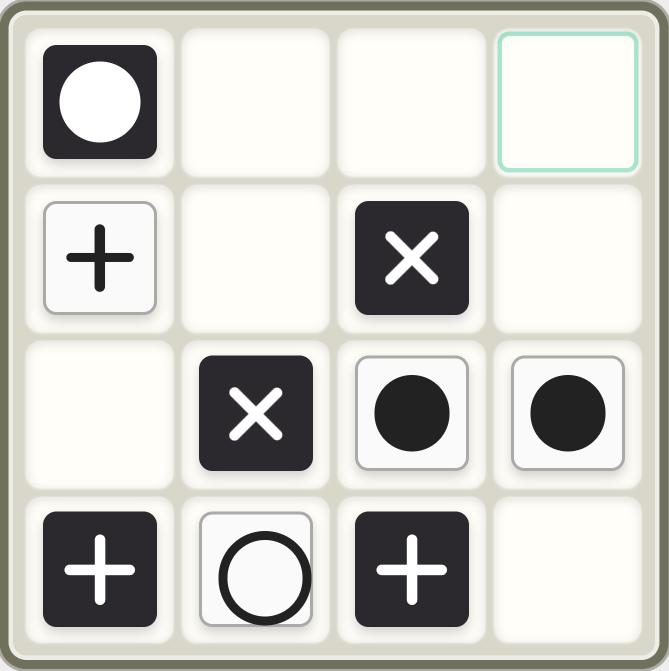
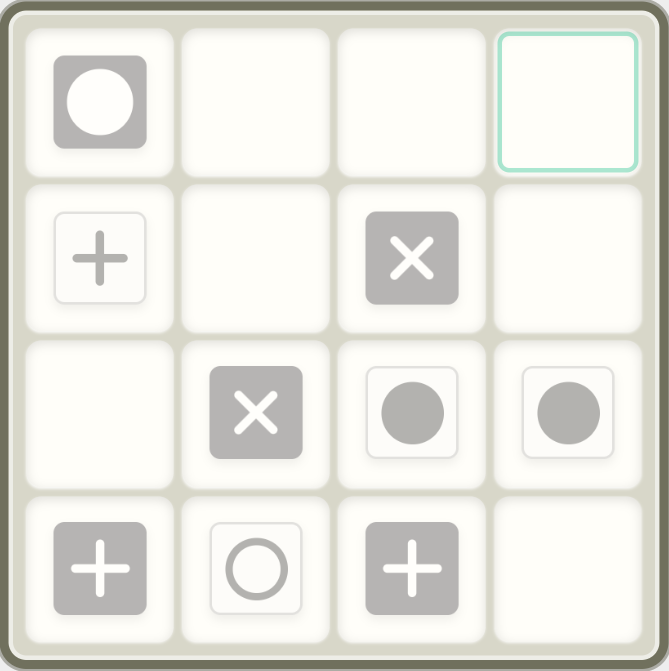
refine lobby and garden preview

diff --git a/index.html b/index.html
@@ -5,24 +5,20 @@
   <meta name="viewport" content="width=device-width, initial-scale=1, viewport-fit=cover">
   <meta name="theme-color" content="#f3f2ec">
   <title>棋類遊戲 3.0｜遊戲大廳</title>
-  <link rel="stylesheet" href="assets/lobby.css">
+  <link rel="stylesheet" href="assets/lobby.css?v=20260715c">
 </head>
 <body>
   <header class="site-head"><div class="head-inner"><p class="brand">ORO BOARD GAMES</p><h1>棋類遊戲 3.0</h1><p class="subtitle">選擇一款遊戲，直接開始對局</p></div></header>
   <main class="lobby">
-    <section class="section-head" aria-labelledby="available-title"><div><p class="eyebrow">PLAYABLE GAMES</p><h2 id="available-title">可遊玩遊戲</h2></div><span class="count">7 款完整遊戲</span></section>
-    <article class="game-card featured">
-      <a class="preview-link" href="interface.html" aria-label="開啟蒐靈祭 Soulaween"><div class="game-preview" data-preview="soulaween" data-cols="4"></div></a>
-      <div class="game-body"><div class="game-title-row"><div><p class="status playable">可遊玩</p><h3>蒐靈祭 <span>Soulaween</span></h3></div><span class="arrow" aria-hidden="true">→</span></div><p class="description">在 4×4 棋盤放置雙面靈魂並翻轉相鄰棋子，形成四連線後收取靈魂。先取得 3 分者獲勝。</p><div class="meta"><span>2 人</span><span>4×4 棋盤</span><span>翻轉與連線</span><span>MCTS AI</span></div><div class="actions"><a class="button primary" href="interface.html">開始遊戲</a><a class="button" href="games/soulaween/rules.html">詳細規則</a></div></div>
-    </article>
-    <section class="section-head catalog-head" aria-labelledby="catalog-title"><div><p class="eyebrow">GAME CATALOG</p><h2 id="catalog-title">其他遊戲</h2></div><span class="count">統一介面與純 MCTS AI</span></section>
+    <section class="section-head" aria-labelledby="available-title"><div><p class="eyebrow">PLAYABLE GAMES</p><h2 id="available-title">可遊玩遊戲</h2></div><span class="count">7 款遊戲</span></section>
     <section class="game-grid">
-      <article class="game-card"><div class="game-preview" data-preview="mijnlieff" data-cols="4"></div><div class="game-body"><p class="status playable">可遊玩</p><h3>花園棋 <span>Mijnlieff</span></h3><p class="description">四種棋子會限制對手下一枚棋的落點，遊戲結束後以三連線與四連線計分。</p><div class="meta"><span>2 人</span><span>A／B／C 棋盤</span><span>落點限制</span></div><div class="actions"><a class="button primary" href="games/mijnlieff/game.html">開始遊戲</a><a class="button" href="games/mijnlieff/rules.html">詳細規則</a></div></div></article>
-      <article class="game-card"><div class="game-preview" data-preview="santorini" data-cols="5"></div><div class="game-body"><p class="status playable">可遊玩</p><h3>聖托里尼 <span>Santorini</span></h3><p class="description">移動工人並建造樓層，登上第三層或讓對手沒有合法移動即可獲勝。</p><div class="meta"><span>2 人</span><span>5×5 棋盤</span><span>移動與建築</span></div><div class="actions"><a class="button primary" href="games/santorini/game.html">開始遊戲</a><a class="button" href="games/santorini/rules.html">詳細規則</a></div></div></article>
-      <article class="game-card"><div class="game-preview" data-preview="zombie" data-cols="5"></div><div class="game-body"><p class="status playable">可遊玩</p><h3>殭屍棋 <span>JUMP</span></h3><p class="description">復活、移動、堆疊與連跳。跳過對手殭屍取得分數，先取得 8 分者獲勝。</p><div class="meta"><span>2 人</span><span>5×5 棋盤</span><span>堆疊與連跳</span></div><div class="actions"><a class="button primary" href="games/zombie-jump/game.html">開始遊戲</a><a class="button" href="games/zombie-jump/rules.html">詳細規則</a></div></div></article>
-      <article class="game-card"><div class="game-preview" data-preview="four-color" data-cols="4"></div><div class="game-body"><p class="status playable">可遊玩</p><h3>四色棋 <span>Four Color Chess</span></h3><p class="description">移動焦點棋後，落點格色會指定對手下一枚必須移動的棋子。</p><div class="meta"><span>2 人</span><span>4×4 棋盤</span><span>焦點與封鎖</span></div><div class="actions"><a class="button primary" href="games/four-color-chess/game.html">開始遊戲</a><a class="button" href="games/four-color-chess/rules.html">詳細規則</a></div></div></article>
-      <article class="game-card"><div class="game-preview" data-preview="four-moves" data-cols="4"></div><div class="game-body"><p class="status playable">可遊玩</p><h3>四步棋 <span>Four Moves Chess</span></h3><p class="description">所在格的數字決定步數，沿正交方向跳到下一個可停留格並封閉離開的格子。</p><div class="meta"><span>2 人</span><span>4×4 棋盤</span><span>數字步數</span></div><div class="actions"><a class="button primary" href="games/four-moves-chess/game.html">開始遊戲</a><a class="button" href="games/four-moves-chess/rules.html">詳細規則</a></div></div></article>
-      <article class="game-card"><div class="game-preview" data-preview="torii" data-cols="4"></div><div class="game-body"><p class="status playable">可遊玩</p><h3>跳躍森靈 <span>Torii</span></h3><p class="description">使用行動板塊移動森靈、散布信徒並以四連線建立鳥居。</p><div class="meta"><span>2 人</span><span>4×4 棋盤</span><span>路徑與鳥居</span></div><div class="actions"><a class="button primary" href="games/torii/game.html">開始遊戲</a><a class="button" href="games/torii/rules.html">詳細規則</a></div></div></article>
+      <article class="game-card"><a class="preview-link" href="interface.html" aria-label="開始蒐靈祭 Soulaween"><div class="game-preview" data-preview="soulaween" data-cols="4"></div></a><div class="game-body"><p class="status playable">可遊玩</p><h3>蒐靈祭 <span>Soulaween</span></h3><p class="description">在 4×4 棋盤放置雙面靈魂並翻轉相鄰棋子，形成四連線後收取靈魂。先取得 3 分者獲勝。</p><div class="meta"><span>2 人</span><span>4×4 棋盤</span><span>翻轉與連線</span></div><div class="actions"><a class="button primary" href="interface.html">開始遊戲</a></div></div></article>
+      <article class="game-card"><a class="preview-link" href="games/mijnlieff/game.html" aria-label="開始花園棋 Mijnlieff"><div class="game-preview" data-preview="mijnlieff" data-cols="4"></div></a><div class="game-body"><p class="status playable">可遊玩</p><h3>花園棋 <span>Mijnlieff</span></h3><p class="description">四種棋子會限制對手下一枚棋的落點，遊戲結束後以三連線與四連線計分。</p><div class="meta"><span>2 人</span><span>A／B／C 棋盤</span><span>落點限制</span></div><div class="actions"><a class="button primary" href="games/mijnlieff/game.html">開始遊戲</a></div></div></article>
+      <article class="game-card"><a class="preview-link" href="games/santorini/game.html" aria-label="開始聖托里尼 Santorini"><div class="game-preview" data-preview="santorini" data-cols="5"></div></a><div class="game-body"><p class="status playable">可遊玩</p><h3>聖托里尼 <span>Santorini</span></h3><p class="description">移動工人並建造樓層，登上第三層或讓對手沒有合法移動即可獲勝。</p><div class="meta"><span>2 人</span><span>5×5 棋盤</span><span>移動與建築</span></div><div class="actions"><a class="button primary" href="games/santorini/game.html">開始遊戲</a></div></div></article>
+      <article class="game-card"><a class="preview-link" href="games/zombie-jump/game.html" aria-label="開始殭屍棋 JUMP"><div class="game-preview" data-preview="zombie" data-cols="5"></div></a><div class="game-body"><p class="status playable">可遊玩</p><h3>殭屍棋 <span>JUMP</span></h3><p class="description">復活、移動、堆疊與連跳。跳過對手殭屍取得分數，先取得 8 分者獲勝。</p><div class="meta"><span>2 人</span><span>5×5 棋盤</span><span>堆疊與連跳</span></div><div class="actions"><a class="button primary" href="games/zombie-jump/game.html">開始遊戲</a></div></div></article>
+      <article class="game-card"><a class="preview-link" href="games/four-color-chess/game.html" aria-label="開始四色棋 Four Color Chess"><div class="game-preview" data-preview="four-color" data-cols="4"></div></a><div class="game-body"><p class="status playable">可遊玩</p><h3>四色棋 <span>Four Color Chess</span></h3><p class="description">移動焦點棋後，落點格色會指定對手下一枚必須移動的棋子。</p><div class="meta"><span>2 人</span><span>4×4 棋盤</span><span>焦點與封鎖</span></div><div class="actions"><a class="button primary" href="games/four-color-chess/game.html">開始遊戲</a></div></div></article>
+      <article class="game-card"><a class="preview-link" href="games/four-moves-chess/game.html" aria-label="開始四步棋 Four Moves Chess"><div class="game-preview" data-preview="four-moves" data-cols="4"></div></a><div class="game-body"><p class="status playable">可遊玩</p><h3>四步棋 <span>Four Moves Chess</span></h3><p class="description">所在格的數字決定步數，沿正交方向跳到下一個可停留格並封閉離開的格子。</p><div class="meta"><span>2 人</span><span>4×4 棋盤</span><span>數字步數</span></div><div class="actions"><a class="button primary" href="games/four-moves-chess/game.html">開始遊戲</a></div></div></article>
+      <article class="game-card"><a class="preview-link" href="games/torii/game.html" aria-label="開始跳躍森靈 Torii"><div class="game-preview" data-preview="torii" data-cols="4"></div></a><div class="game-body"><p class="status playable">可遊玩</p><h3>跳躍森靈 <span>Torii</span></h3><p class="description">使用行動板塊移動森靈、散布信徒並以四連線建立鳥居。</p><div class="meta"><span>2 人</span><span>4×4 棋盤</span><span>路徑與鳥居</span></div><div class="actions"><a class="button primary" href="games/torii/game.html">開始遊戲</a></div></div></article>
     </section>
   </main>
   <footer class="site-footer">棋類遊戲 3.0 · 網頁版僅供遊戲推廣與程式練習，實體遊戲版權屬各設計者與出版社。</footer>
@@ -31,7 +27,7 @@
     document.querySelectorAll('[data-preview]').forEach((board) => {
       const image = document.createElement('img');
       image.className = 'game-preview-image';
-      image.src = `assets/lobby-boards/${previewImages[board.dataset.preview] || board.dataset.preview}.png?v=20260715a`;
+      image.src = `assets/lobby-boards/${previewImages[board.dataset.preview] || board.dataset.preview}.png?v=20260715c`;
       image.alt = `${board.dataset.preview} 實際遊戲中局棋盤`;
       board.replaceWith(image);
     });

diff --git a/assets/lobby.css b/assets/lobby.css
@@ -27,34 +27,27 @@ a { color: inherit; }
 .section-head { display: flex; align-items: end; justify-content: space-between; gap: 16px; margin-bottom: 14px; }
 .section-head h2 { margin: 0; font-size: 24px; }
 .count { color: var(--muted); font-size: 13px; }
-.catalog-head { margin-top: 36px; }
-
 .game-grid { display: grid; grid-template-columns: repeat(3, minmax(0, 1fr)); gap: 16px; }
 .game-card { min-width: 0; overflow: hidden; background: var(--panel); border: 1px solid var(--line); border-radius: 8px; box-shadow: 0 8px 24px rgba(45,45,38,.08); }
-.game-card.featured { display: grid; grid-template-columns: minmax(280px, .9fr) minmax(320px, 1.1fr); }
 .game-body { padding: 18px; }
-.game-title-row { display: flex; justify-content: space-between; gap: 16px; }
 .game-card h3 { margin: 5px 0 9px; font-size: 21px; line-height: 1.2; }
 .game-card h3 span { display: block; margin-top: 3px; color: var(--muted); font-family: Georgia, serif; font-size: 15px; font-weight: 600; }
-.featured h3 { font-size: 28px; }
-.arrow { color: var(--muted); font-size: 38px; line-height: 1; }
 .description { min-height: 66px; margin: 0; color: #5f5f59; font-size: 14px; line-height: 1.6; }
-.featured .description { min-height: auto; font-size: 16px; }
 .status { width: fit-content; margin: 0; padding: 3px 7px; border-radius: 4px; font-size: 11px; font-weight: 900; }
 .status.playable { background: #dff7ed; color: #087452; }
 .status.pending { background: #ecebe5; color: #74736c; }
 .meta { display: flex; flex-wrap: wrap; gap: 6px; margin-top: 14px; }
 .meta span { padding: 4px 7px; background: #f0efe9; border: 1px solid #e0ded3; border-radius: 4px; color: #5e5e58; font-size: 11px; font-weight: 700; }
 .actions { display: flex; gap: 8px; margin-top: 16px; }
-.button { min-height: 38px; display: inline-flex; align-items: center; justify-content: center; padding: 7px 12px; border: 1px solid #aaa89e; border-radius: 6px; background: #fff; color: #565650; font-size: 13px; font-weight: 800; text-decoration: none; }
+.button { width: 100%; min-height: 38px; display: inline-flex; align-items: center; justify-content: center; padding: 7px 12px; border: 1px solid #aaa89e; border-radius: 6px; background: #fff; color: #565650; font-size: 13px; font-weight: 800; text-decoration: none; }
 .button.primary { border-color: var(--dark); background: var(--dark); color: #fff; }
 .button:hover, .button:focus-visible { border-color: var(--ink); outline: 2px solid rgba(36,36,33,.16); outline-offset: 2px; }
 
-.preview-link { display: block; min-height: 100%; text-decoration: none; }
-.game-preview-image { width: 100%; aspect-ratio: 1.35; display: block; object-fit: contain; background: #deddd2; border-bottom: 1px solid var(--line); }
-.featured .game-preview-image { height: 100%; aspect-ratio: auto; min-height: 280px; border-right: 1px solid var(--line); border-bottom: 0; }
+.preview-link { display: block; text-decoration: none; }
+.game-preview-image { width: 100%; aspect-ratio: 1.35; display: block; object-fit: contain; background: #deddd2; border-bottom: 1px solid var(--line); transition: filter .18s ease; }
+.preview-link:hover .game-preview-image, .preview-link:focus-visible .game-preview-image { filter: brightness(.96); }
+.preview-link:focus-visible { outline: 3px solid rgba(36,36,33,.25); outline-offset: -3px; }
 .game-preview { --cols: 4; aspect-ratio: 1.35; display: grid; grid-template-columns: repeat(var(--cols), 1fr); gap: 5px; padding: 18px; background: #deddd2; border-bottom: 1px solid var(--line); }
-.featured .game-preview { height: 100%; aspect-ratio: auto; min-height: 280px; border-right: 1px solid var(--line); border-bottom: 0; }
 .game-preview i { position: relative; min-width: 0; display: grid; place-items: center; border-radius: 5px; background: #faf9f3; color: #5d5c55; font-style: normal; font-size: 17px; font-weight: 900; box-shadow: inset 0 1px 3px rgba(0,0,0,.09); }
 .game-preview i::after { content: ""; width: 64%; aspect-ratio: 1; border-radius: 50%; }
 .game-preview .v-empty::after { width: 4px; background: #d9d7cc; }
@@ -93,9 +86,6 @@ a { color: inherit; }
 @media (max-width: 620px) {
   .head-inner { padding: 26px 0 22px; }
   .lobby { padding-top: 22px; }
-  .game-card.featured { display: block; }
-  .featured .game-preview-image { height: auto; min-height: 0; aspect-ratio: 1.35; border-right: 0; border-bottom: 1px solid var(--line); }
-  .featured .game-preview { min-height: 0; aspect-ratio: 1.35; border-right: 0; border-bottom: 1px solid var(--line); }
   .game-grid { grid-template-columns: 1fr; }
   .description { min-height: 0; }
 }

diff --git a/assets/game-shell.css b/assets/game-shell.css
@@ -207,9 +207,9 @@ button { cursor: pointer; }
 .mijn-hand.second { background: #fefcf0; }
 .mijn-hand.second .mijn-token { background: #fefcf0; color: #2d2a2e; border-color: #d6d3c1; }
 .mijn-token .piece-mark { font-size: 30px; line-height: 1; }
-.mijn-token .mark-push, .mijn-token .mark-pull { width: 30px; height: 30px; border-radius: 50%; font-size: 0; }
+.mijn-token .mark-push, .mijn-token .mark-pull { width: 24px; height: 24px; border-radius: 50%; font-size: 0; }
 .mijn-token .mark-push { background: currentColor; }
-.mijn-token .mark-pull { border: 3px solid currentColor; }
+.mijn-token .mark-pull { border: 2px solid currentColor; }
 .mijn-token small { position: absolute; right: 2px; bottom: 0; font-size: 9px; }
 .tray-note { flex-basis: 100%; text-align: center; }
 

diff --git a/games/mijnlieff/game.html b/games/mijnlieff/game.html
@@ -1,1 +1,1 @@
-<!doctype html><html lang="zh-Hant"><head><meta charset="utf-8"><meta name="viewport" content="width=device-width,initial-scale=1,viewport-fit=cover"><meta name="theme-color" content="#f4f1e8"><title>花園棋 Mijnlieff</title><link rel="stylesheet" href="../../assets/game-shell.css?v=20260715b"></head><body data-game="mijnlieff"><div id="app"></div><script src="../../assets/game-core.js?v=20260715b"></script><script src="../../assets/games.js?v=20260715b"></script></body></html>
+<!doctype html><html lang="zh-Hant"><head><meta charset="utf-8"><meta name="viewport" content="width=device-width,initial-scale=1,viewport-fit=cover"><meta name="theme-color" content="#f4f1e8"><title>花園棋 Mijnlieff</title><link rel="stylesheet" href="../../assets/game-shell.css?v=20260715c"></head><body data-game="mijnlieff"><div id="app"></div><script src="../../assets/game-core.js?v=20260715b"></script><script src="../../assets/games.js?v=20260715b"></script></body></html>